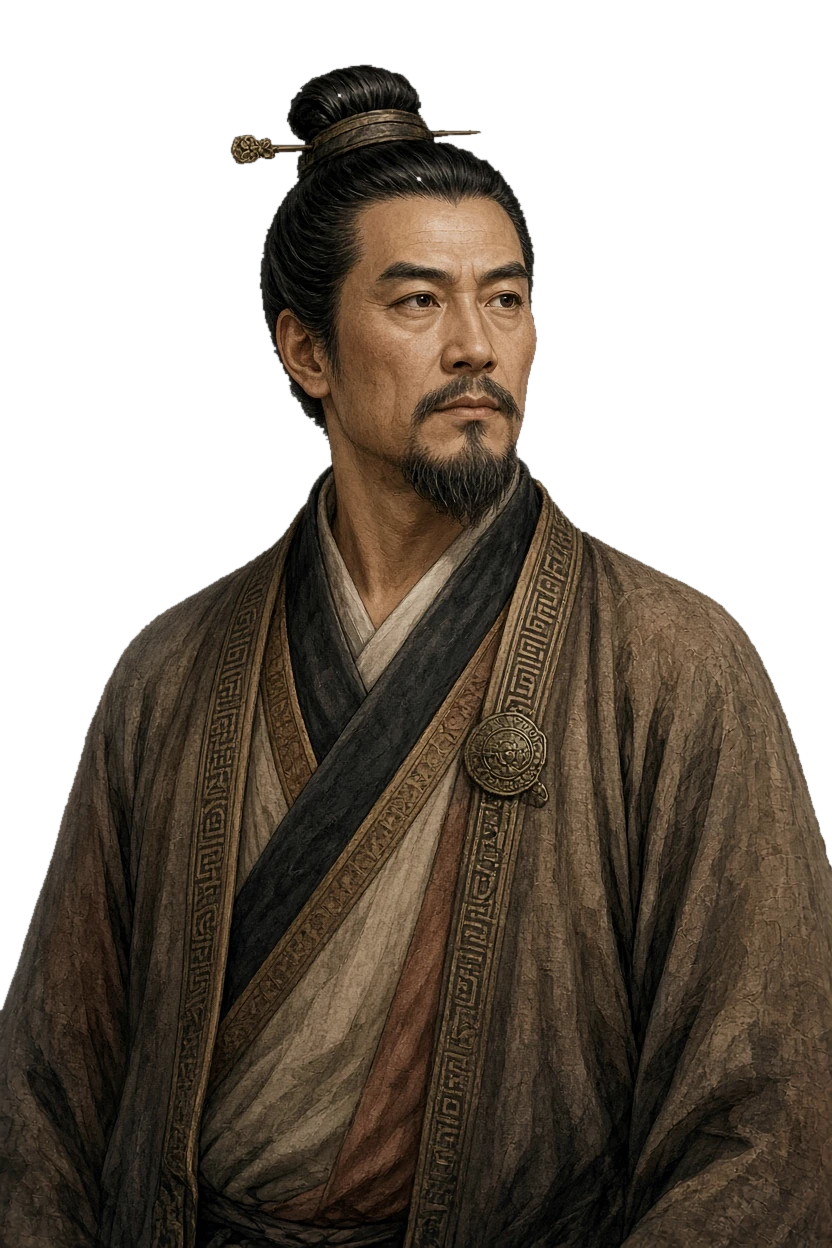
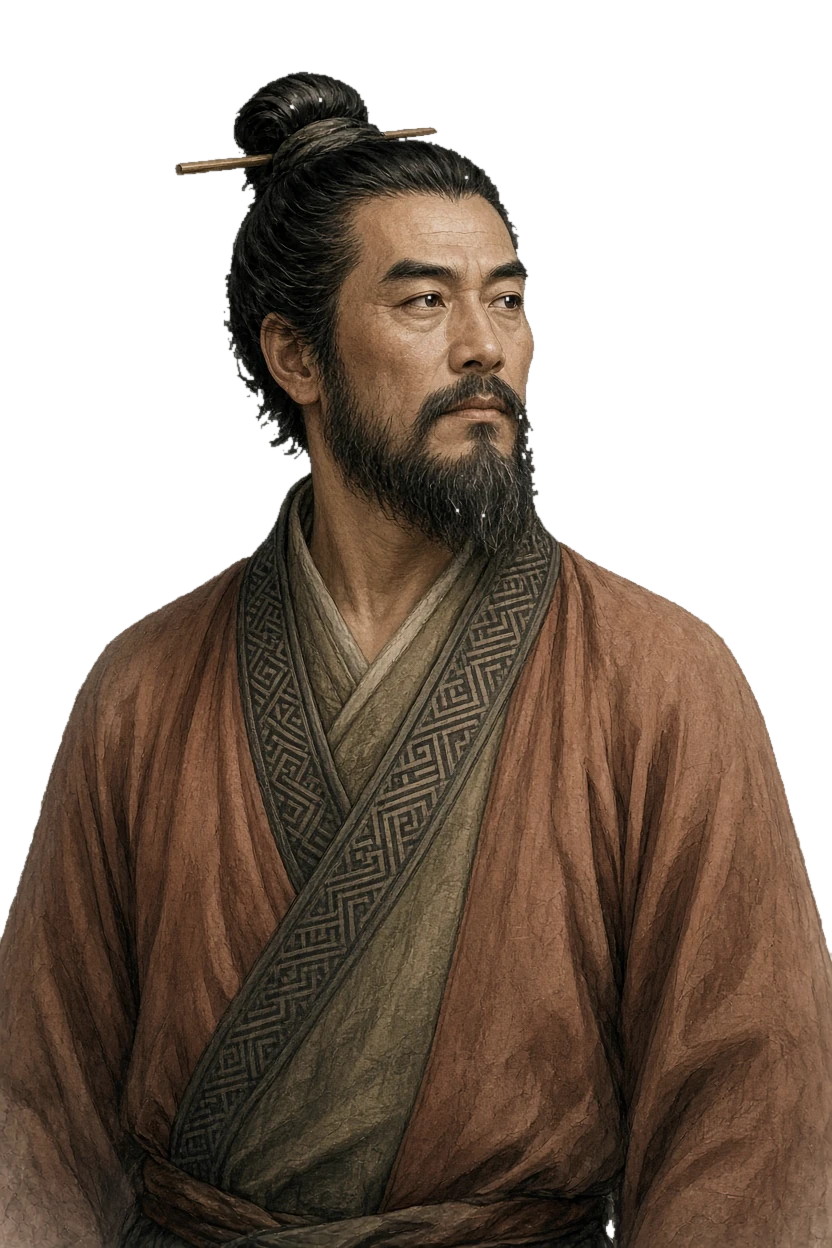
feat: replace Qin Feizi portrait

diff --git a/README.md b/README.md
@@ -108,7 +108,7 @@ document.querySelector('iframe').contentWindow.QinEnding.reveal();
 
 五张人物图由课程方提供（原始文件为带棋盘格背景的 JPG），页面使用前已做去底、裁切、轻微调色，并转为透明 WebP。相比原来的内联 SVG，人物写实度和课本感更强，同时仍然是本地素材，不依赖 CDN 或外部字体服务。
 
-原始 JPG 保留在 `assets/half-body-historical-portrait-1~5.jpg`，成品为 `assets/portrait-*.webp`。如需换图，替换对应 WebP 并更新 `app.js` 中 `image` 字段即可，卡片结构和交互不用动。人物图的版权与使用范围按课程方提供的授权为准。
+原始 JPG 保留在 `assets/half-body-historical-portrait.jpg`（秦非子）与 `assets/half-body-historical-portrait-2~5.jpg`（其余四位），成品为 `assets/portrait-*.webp`。如需换图，替换对应 WebP 并更新 `app.js` 中 `image` 字段即可，卡片结构和交互不用动。人物图的版权与使用范围按课程方提供的授权为准。
 
 ### 7. “播放”是否等于配音
 
